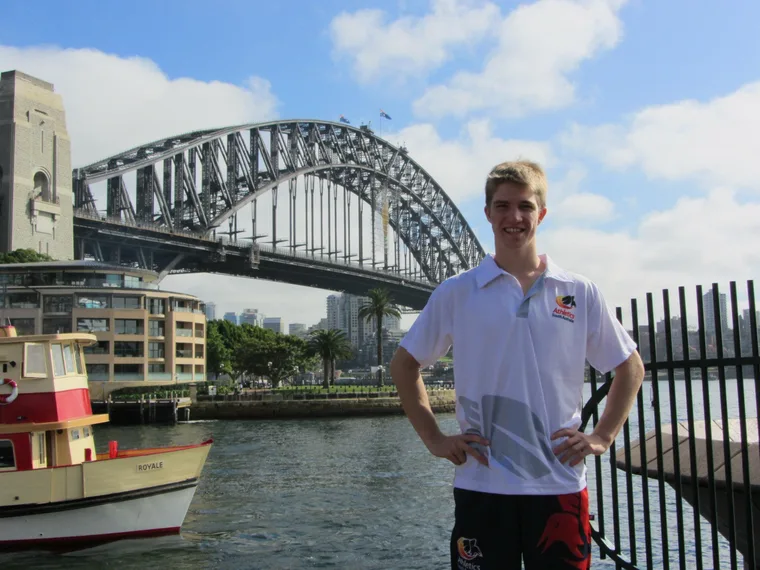
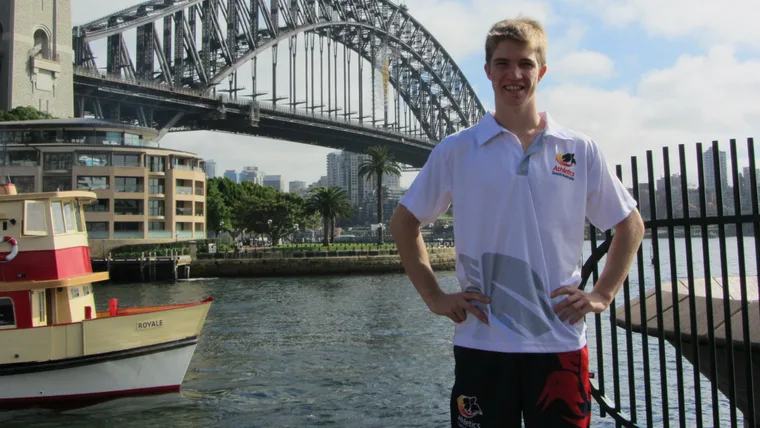
Data Entry

diff --git a/src/utils/images.ts b/src/utils/images.ts
@@ -33,14 +33,15 @@ export const imageDimensionsBySrc = {
 	'/assets/images/experience-catalyst-games-sagta-award-media-wall.webp': { width: 760, height: 507 },
 	'/assets/images/experience-catalyst-games-studio-event-audience.webp': { width: 760, height: 507 },
 	'/assets/images/experience-catalyst-games-studio-event-group.webp': { width: 760, height: 507 },
+	'/assets/images/experience-daytime-devs-avcon-costumes.webp': { width: 760, height: 428 },
+	'/assets/images/experience-daytime-devs-booth-team.webp': { width: 760, height: 428 },
 	'/assets/images/experience-daytime-devs-convention.webp': { width: 760, height: 428 },
+	'/assets/images/experience-daytime-devs-pax-aus-team.webp': { width: 760, height: 428 },
 	'/assets/images/experience-daytime-devs-sasa-team.webp': { width: 760, height: 428 },
 	'/assets/images/experience-power-net-it-solutions.webp': { width: 760, height: 478 },
 	'/assets/images/experience-solo-dev.webp': { width: 760, height: 428 },
-	'/assets/images/experience-state-level-athlete-gold-medal.webp': { width: 760, height: 507 },
-	'/assets/images/experience-state-level-athlete-harbour.webp': { width: 760, height: 570 },
-	'/assets/images/experience-state-level-athlete-silver-medal.webp': { width: 760, height: 507 },
-	'/assets/images/experience-state-level-athlete-track.webp': { width: 570, height: 760 },
+	'/assets/images/experience-state-level-athlete-harbour.webp': { width: 760, height: 428 },
+	'/assets/images/experience-state-level-athlete-track.webp': { width: 760, height: 428 },
 	'/assets/images/experience-university-of-adelaide.webp': { width: 760, height: 478 },
 	'/assets/images/footer-frame-dark.webp': { width: 1983, height: 793 },
 	'/assets/images/footer-frame-light.webp': { width: 1983, height: 793 },

diff --git a/src/data/experience.ts b/src/data/experience.ts
@@ -25,6 +25,18 @@ export const experience = {
 					src: '/assets/images/experience-daytime-devs-convention.webp',
 					alt: 'Daytime Devs team members in Super BAWK BAWK Chicken shirts at a convention booth.',
 				},
+				{
+					src: '/assets/images/experience-daytime-devs-pax-aus-team.webp',
+					alt: 'Daytime Devs team members at PAX Aus in front of Super BAWK BAWK Chicken banners.',
+				},
+				{
+					src: '/assets/images/experience-daytime-devs-booth-team.webp',
+					alt: 'Daytime Devs team members standing behind a Super BAWK BAWK Chicken convention booth.',
+				},
+				{
+					src: '/assets/images/experience-daytime-devs-avcon-costumes.webp',
+					alt: 'Daytime Devs team members wearing chicken costumes at a convention.',
+				},
 			],
 			dateLabel: 'Mar 2022 - Present',
 			cardDateLabel: '2022 - Present',
@@ -347,14 +359,6 @@ export const experience = {
 				{
 					src: '/assets/images/experience-state-level-athlete-harbour.webp',
 					alt: 'Athletics South Australia runner standing near Sydney Harbour Bridge.',
-				},
-				{
-					src: '/assets/images/experience-state-level-athlete-gold-medal.webp',
-					alt: 'Gold Athletics South Australia State Championships medal.',
-				},
-				{
-					src: '/assets/images/experience-state-level-athlete-silver-medal.webp',
-					alt: 'Silver Athletics South Australia medal for the Under 18 100 metres event.',
 				},
 			],
 			dateLabel: '2011 - 2012',
